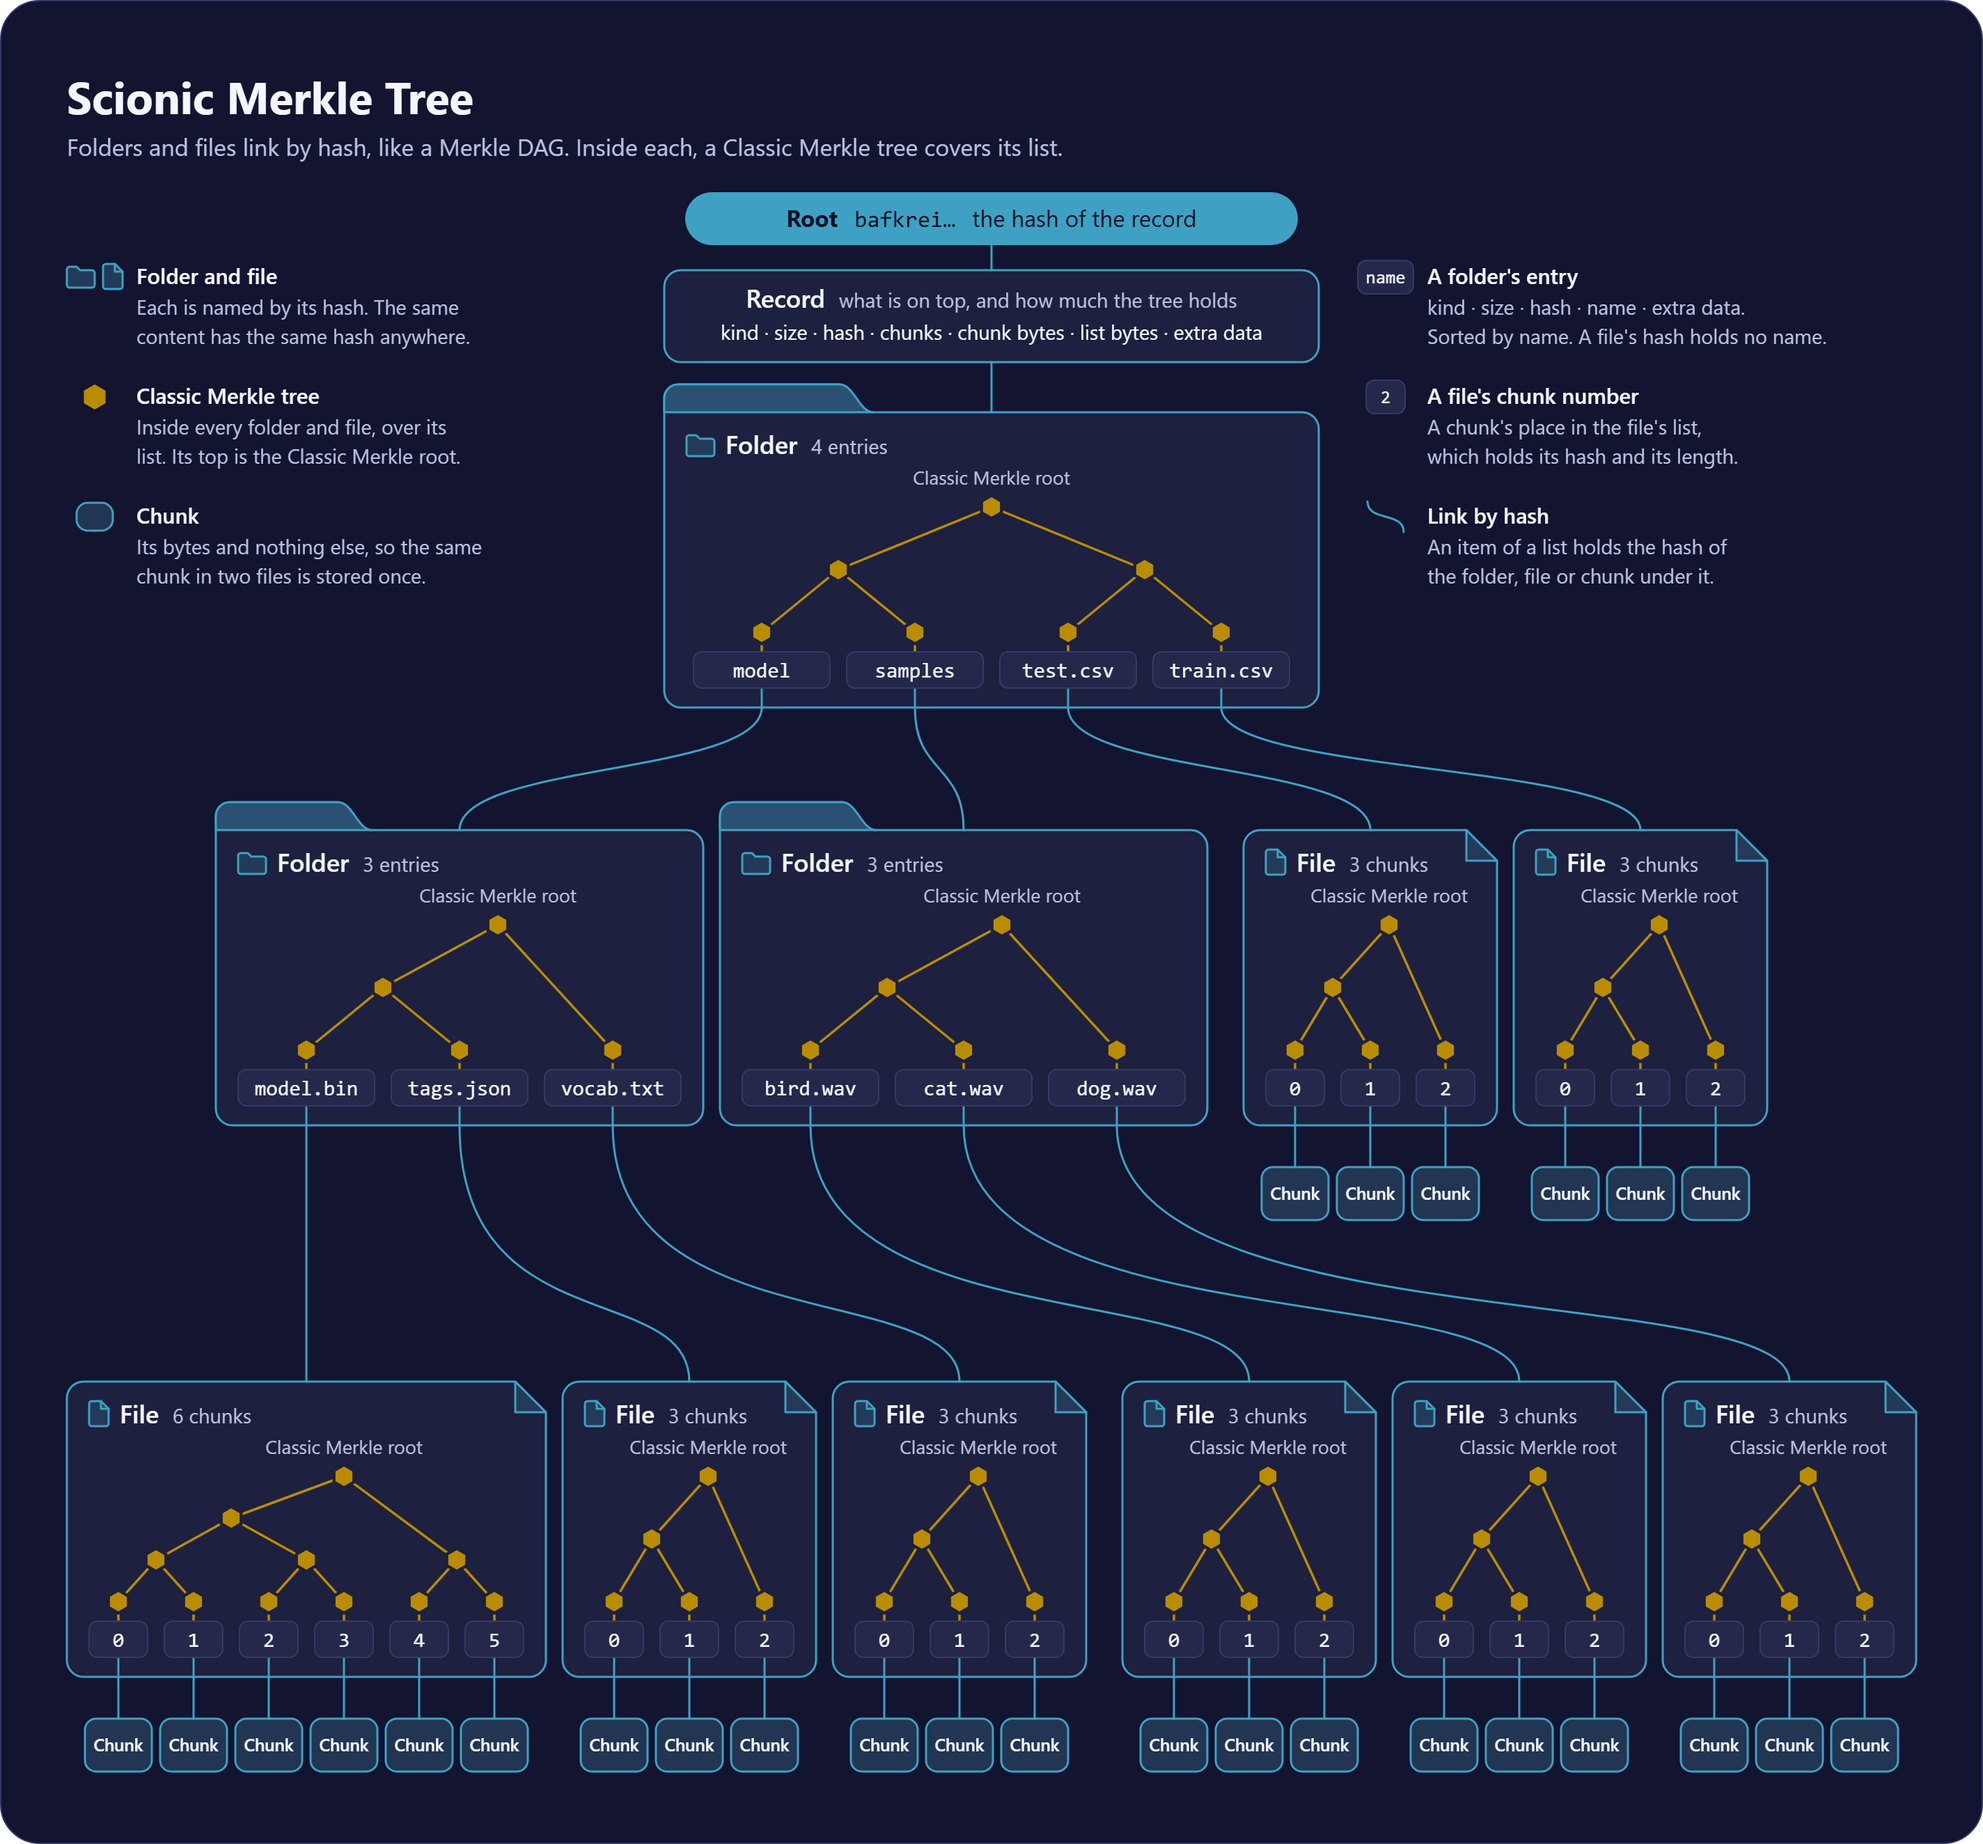
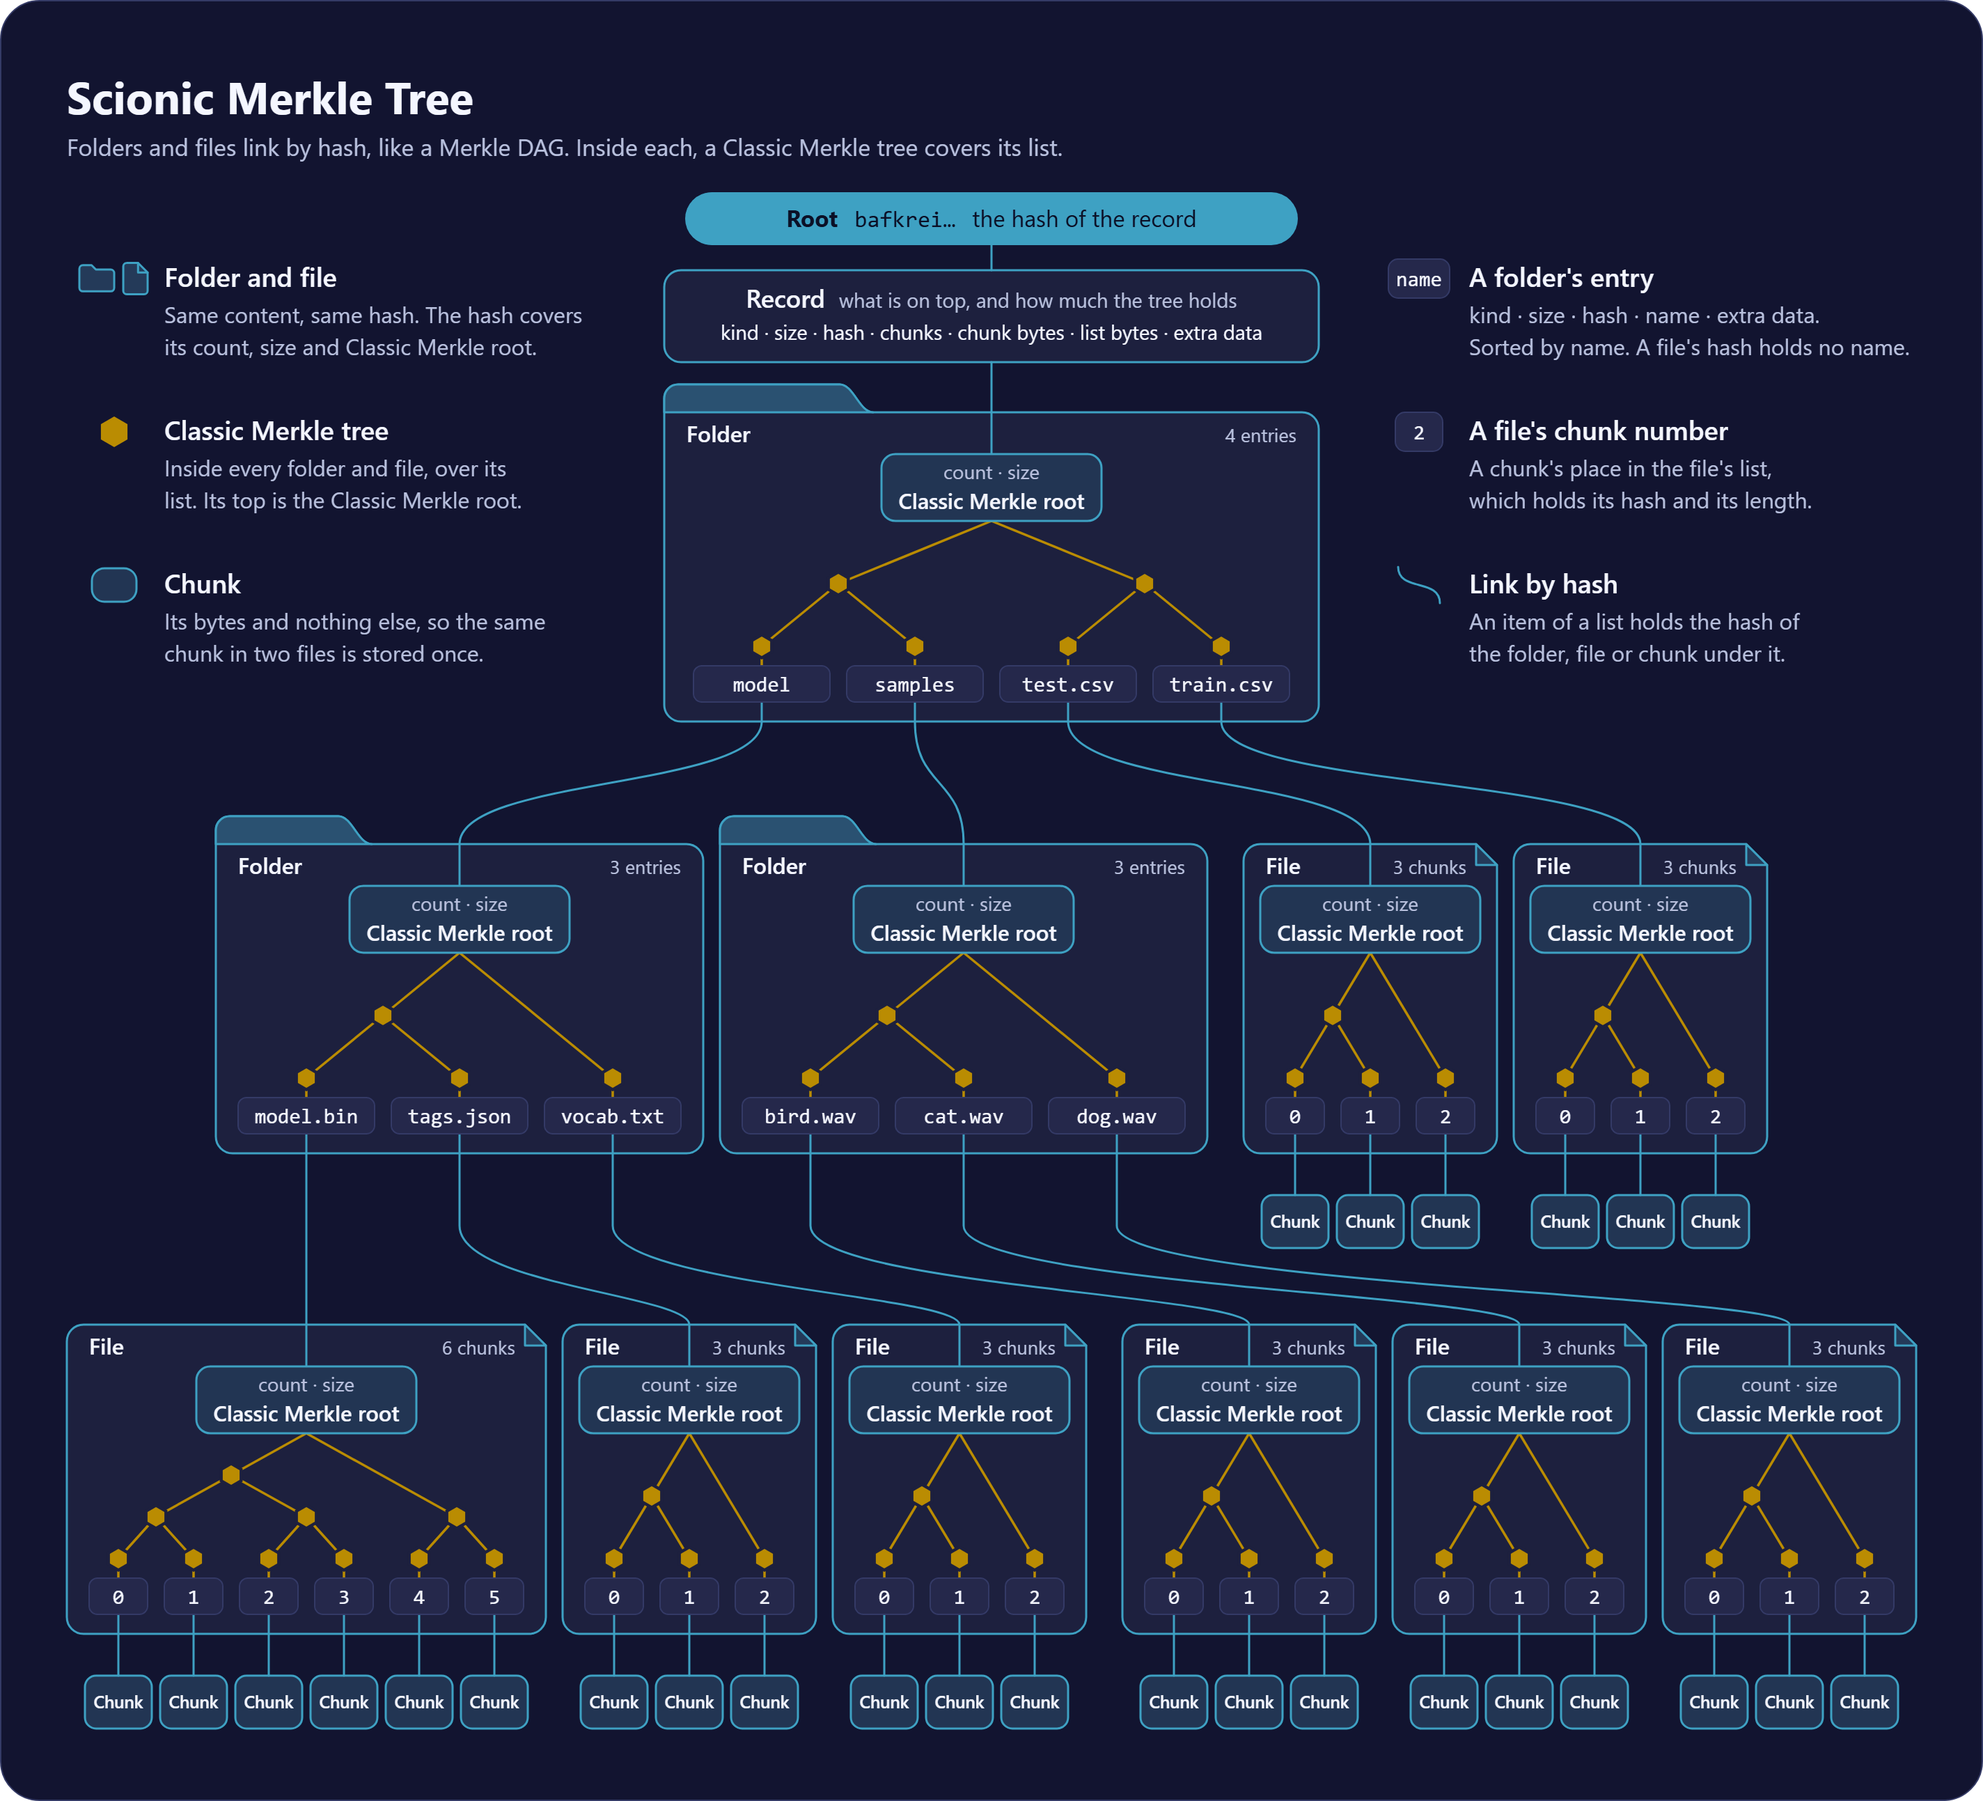
docs: the README names LeafSync, and says what a hash covers
- The protocol is named LeafSync, where the README had said Scionic
  Sync.
- Under "Chunked Parent Leaves", a paragraph says what the hash of a
  folder or of a file covers: how many items its list has, its size in
  bytes, and its Classic Merkle root.
- The three pictures are drawn again in the Go library and copied here,
  byte for byte, as docs/pictures says. They show those three in a box
  in every folder and file, and name LeafSync.

diff --git a/README.md b/README.md
@@ -4,7 +4,7 @@
 
 ## Combining Merkle Trees and Merkle DAGs
 
-We've designed a [new type of Merkle DAG/Merkle Tree hybrid](https://www.hornet.storage/) known as the Scionic Merkle Tree. Scionic Merkle Trees contain small branches like Classic Merkle Trees, the folder storage support of Merkle DAGs, and numbered file chunks, so anyone can sync a file by its hash and request the range of chunk numbers they are missing. Scionic Sync is the name of the simple protocol used to request a range of a file's chunk numbers in order to retrieve a batch of missing file chunks. Identical chunks, files and folders have identical hashes wherever they appear, so each one is stored once and sent once.
+We've designed a [new type of Merkle DAG/Merkle Tree hybrid](https://www.hornet.storage/) known as the Scionic Merkle Tree. Scionic Merkle Trees contain small branches like Classic Merkle Trees, the folder storage support of Merkle DAGs, and numbered file chunks, so anyone can sync a file by its hash and request the range of chunk numbers they are missing. LeafSync is the name of the simple protocol used to request a range of a file's chunk numbers in order to retrieve a batch of missing file chunks. Identical chunks, files and folders have identical hashes wherever they appear, so each one is stored once and sent once.
 
 ![Comparison of Many Merklized Forms. Numbered chunks and Negentropy symbiosis: Scionic Merkle Trees only. Folder storage support: IPFS Merkle DAGs and Scionic Merkle Trees. Chunked parent leaves: Scionic Merkle Trees and Classic Merkle Trees.](docs/pictures/merklized-forms.png)
 
@@ -42,7 +42,7 @@ flowchart TD
 
 *Two versions of a model in one tree. The second version changed one chunk, so that chunk is the only new data: chunks A and C are stored once and shared. A name belongs to its folder and a chunk number belongs to its file, so a file is the same file wherever it sits and whatever it is called.*
 
-Scionic Merkle Trees maintain the advantages of IPFS Merkle DAGs with the slim Merkle Branches of Classic Merkle Trees, while providing Scionic Sync as a new feature that complements any set reconciliation system (IBLTs, negentropy, et al.). In plant grafting, the "Scion" is the upper part of the plant, chosen for its desirable fruits or flowers; it's grafted onto another plant's base to grow together. In a similar vein, the Scionic Merkle Tree was born from grafting together Merkle Trees and Merkle DAGs. This process emphasizes why we use the term "Scion" for the Scionic Merkle Trees: it symbolizes the digital grafting of these two similar data structures, combining their strengths into one piece of software.
+Scionic Merkle Trees maintain the advantages of IPFS Merkle DAGs with the slim Merkle Branches of Classic Merkle Trees, while providing LeafSync as a new feature that complements any set reconciliation system (IBLTs, negentropy, et al.). In plant grafting, the "Scion" is the upper part of the plant, chosen for its desirable fruits or flowers; it's grafted onto another plant's base to grow together. In a similar vein, the Scionic Merkle Tree was born from grafting together Merkle Trees and Merkle DAGs. This process emphasizes why we use the term "Scion" for the Scionic Merkle Trees: it symbolizes the digital grafting of these two similar data structures, combining their strengths into one piece of software.
 
 ## Contents
 
@@ -107,6 +107,8 @@ Within each parent leaf, the list of children is organized as a Classic Merkle T
 - **A folder's Classic Merkle Tree** covers its entries, in the order of their names.
 - **A file's Classic Merkle Tree** covers its chunks, in the order they have in the file. A chunk's number is its place in that tree, so a chunk cannot be shown under a number it does not have.
 
+The top of each tree is its Classic Merkle root. The hash of a folder or of a file covers three things: how many items its list has, its size in bytes, and its Classic Merkle root. That hash is what a parent holds for its child, and what the tree's record holds for the folder or file on top. In the pictures below, every folder and file shows those three in a box, and every link by hash ends at that box.
+
 A large file has far more chunks than most folders have entries: about 500,000 for a file of a terabyte. A file of 512 KiB or less is a single chunk, and its tree is that one leaf.
 
 ### File Chunk Downloading with Chunked Parent Leaves
@@ -119,11 +121,11 @@ A folder's entries are sorted by name, and every fork of the folder's Merkle tre
 
 ### Scionic Merkle Tree
 
-![Scionic Merkle Tree: the root is the hash of the record, which names the folder on top. Each folder lists its entries by name and each file lists its chunks by number, and a Classic Merkle tree inside each one covers its list.](docs/pictures/scionic-merkle-tree.png)
+![Scionic Merkle Tree: the root is the hash of the record, which names the folder on top. Each folder lists its entries by name and each file lists its chunks by number, and a Classic Merkle tree inside each one covers its list. Every link ends at a box that holds what the hash covers: the count, the size and the Classic Merkle root.](docs/pictures/scionic-merkle-tree.png)
 
 ### Scionic Merkle Branch
 
-![Scionic Merkle Branch: one chunk of a file, proven against the root. Each folder and file on the way shows one item of its list with a few hashes beside it, and the rest of the tree is never sent.](docs/pictures/scionic-merkle-branch.png)
+![Scionic Merkle Branch: one chunk of a file, proven against the root. Each folder and file on the way shows one item of its list with a few hashes beside it. At each step the count, the size and the Classic Merkle root are hashed, and must give the hash held just above. The rest of the tree is never sent.](docs/pictures/scionic-merkle-branch.png)
 
 ## Scionic Merkle Branch Statistics
 
@@ -155,7 +157,7 @@ Scionic Merkle Trees incorporate Classic Merkle Trees within their structure, so
 
 ## Syncing by File Hash and Chunk Number
 
-A Scionic Merkle Tree says what is in it. The root names what is on top, a folder lists its entries, and a file lists its chunks. **Scionic Sync**, which earlier versions called LeafSync, is the protocol that fetches from it. A receiver asks for:
+A Scionic Merkle Tree says what is in it. The root names what is on top, a folder lists its entries, and a file lists its chunks. **LeafSync** is the protocol that fetches from it. A receiver asks for:
 
 - **a file by its hash, and its chunks by their numbers**: chunks 100 to 200 of this file;
 - **a range of a file's bytes**, for which only the chunks that hold those bytes are sent;
@@ -165,12 +167,12 @@ A chunk's number is its position in its file's list, and the file's hash covers 
 
 ### Negentropy Symbiosis
 
-Scionic Sync complements any set reconciliation system, such as Negentropy. Each does the part it is suited to:
+LeafSync complements any set reconciliation system, such as Negentropy. Each does the part it is suited to:
 
 - **Set reconciliation syncs the Merkle roots, and the file hashes that link to each root.** Two sides work out which roots, and which files under a root, one of them holds and the other is missing. These are small sets: one hash for a tree and one for a file.
-- **Scionic Sync then syncs the chunks of each file.** A file's chunks are numbered, so a receiver asks for the ranges of numbers it is missing. Chunk hashes are never reconciled as a set. They are by far the largest set, about 500,000 for a terabyte of files, and set reconciliation costs memory and work for every hash in the set.
+- **LeafSync then syncs the chunks of each file.** A file's chunks are numbered, so a receiver asks for the ranges of numbers it is missing. Chunk hashes are never reconciled as a set. They are by far the largest set, about 500,000 for a terabyte of files, and set reconciliation costs memory and work for every hash in the set.
 
-This library provides Scionic Sync. It holds no set reconciliation of its own, and works beside whichever one an application runs. A receiver that has nothing but a root needs none at all: it walks down from the root, skips everything it already holds by its hash, and asks for the rest.
+This library provides LeafSync. It holds no set reconciliation of its own, and works beside whichever one an application runs. A receiver that has nothing but a root needs none at all: it walks down from the root, skips everything it already holds by its hash, and asks for the rest.
 
 A phone can read one file out of a tree of terabytes and hold almost nothing. Which chunks of a file a peer holds is one bit per chunk: about 60 KB for a file of a terabyte. Different ranges of one file can be requested from different peers at the same time.
 
@@ -181,7 +183,7 @@ A phone can read one file out of a tree of terabytes and hold almost nothing. Wh
 Version 2.5.6 is a new tree format, built for deduplication and for trees of a terabyte and more. It does not read trees made by 2.4.x, and the same folder has a different root than it had there.
 
 - **Deduplication comes first.** A chunk's hash covers its bytes alone and a file's hash covers its chunks alone. Names and chunk numbers moved into the parent. Earlier versions hashed a chunk's number into the chunk and a file's name into the file, so the same bytes had different hashes in different places.
-- **Scionic Sync numbers a file's chunks, not a tree's leaves.** Earlier versions called it LeafSync and numbered every leaf of a tree. It now asks for a file by its hash and for its chunks by their numbers within that file, which the file's hash covers. Set reconciliation is left with the small sets: the Merkle roots, and the file hashes that link to them.
+- **LeafSync numbers a file's chunks, not a tree's leaves.** Earlier versions numbered every leaf of a tree. It now asks for a file by its hash and for its chunks by their numbers within that file, which the file's hash covers. Set reconciliation is left with the small sets: the Merkle roots, and the file hashes that link to them.
 - **A folder has one place for each name,** so one branch proves that a name is in a folder, or that it is not.
 - **Hardened against forged data.** A made-up leaf, a file that comes back short, a chunk that belongs to another file, and a store that is tricked into handing back other bytes are each refused, and each has a test.
 - **Bounded memory and work.** Every request says how long its answer may be, a tree's record says how much the tree holds, and writing a tree out counts what it would create before it creates anything.
